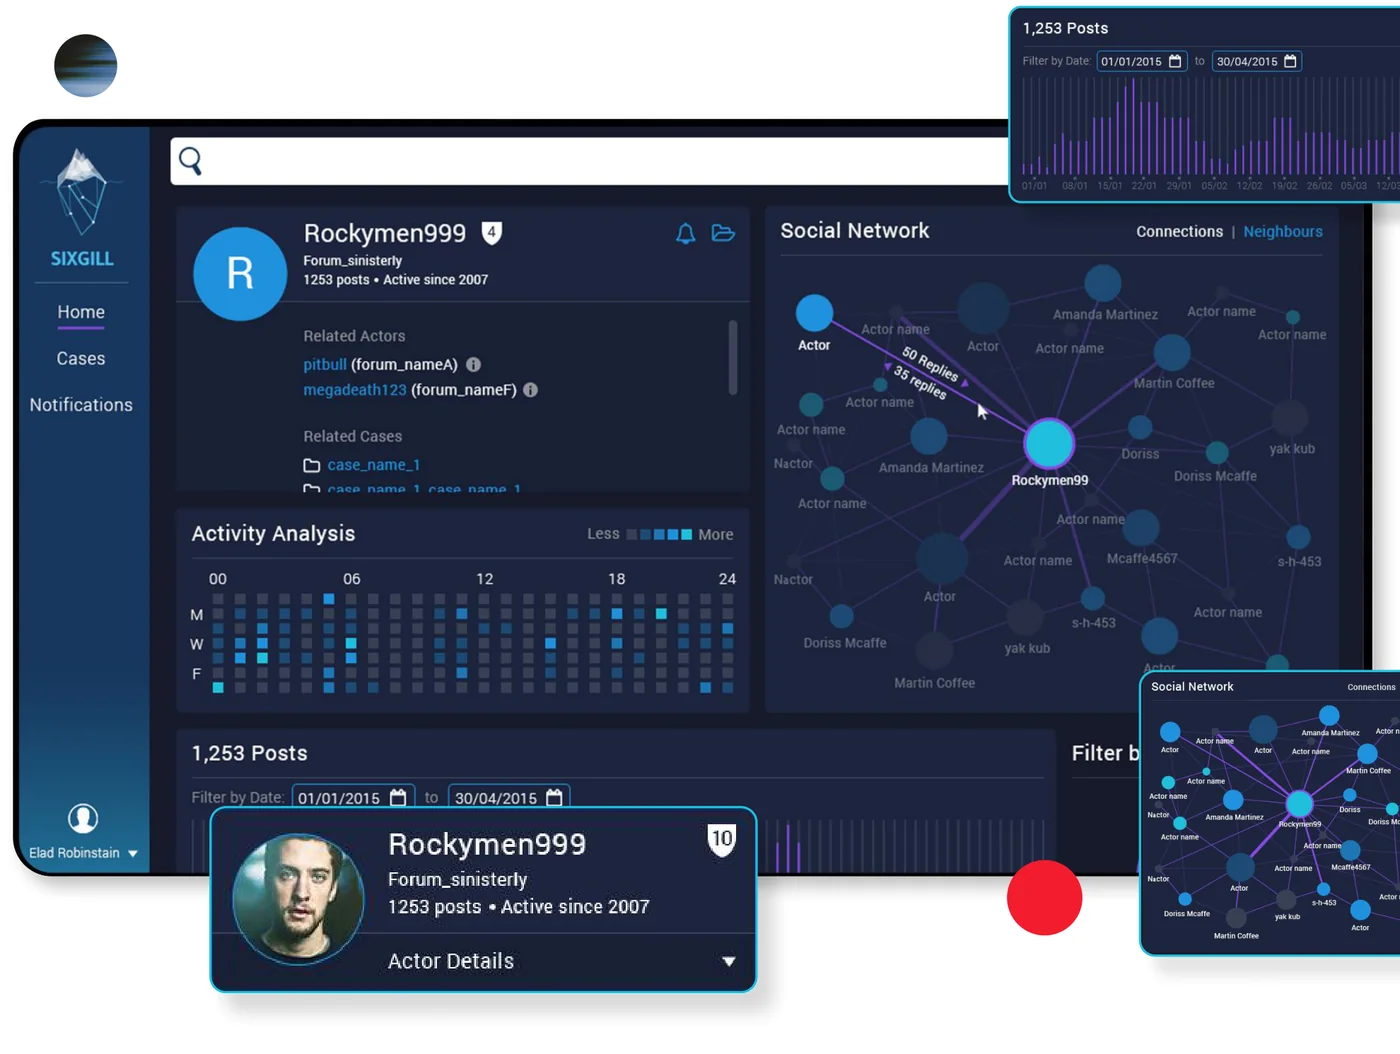
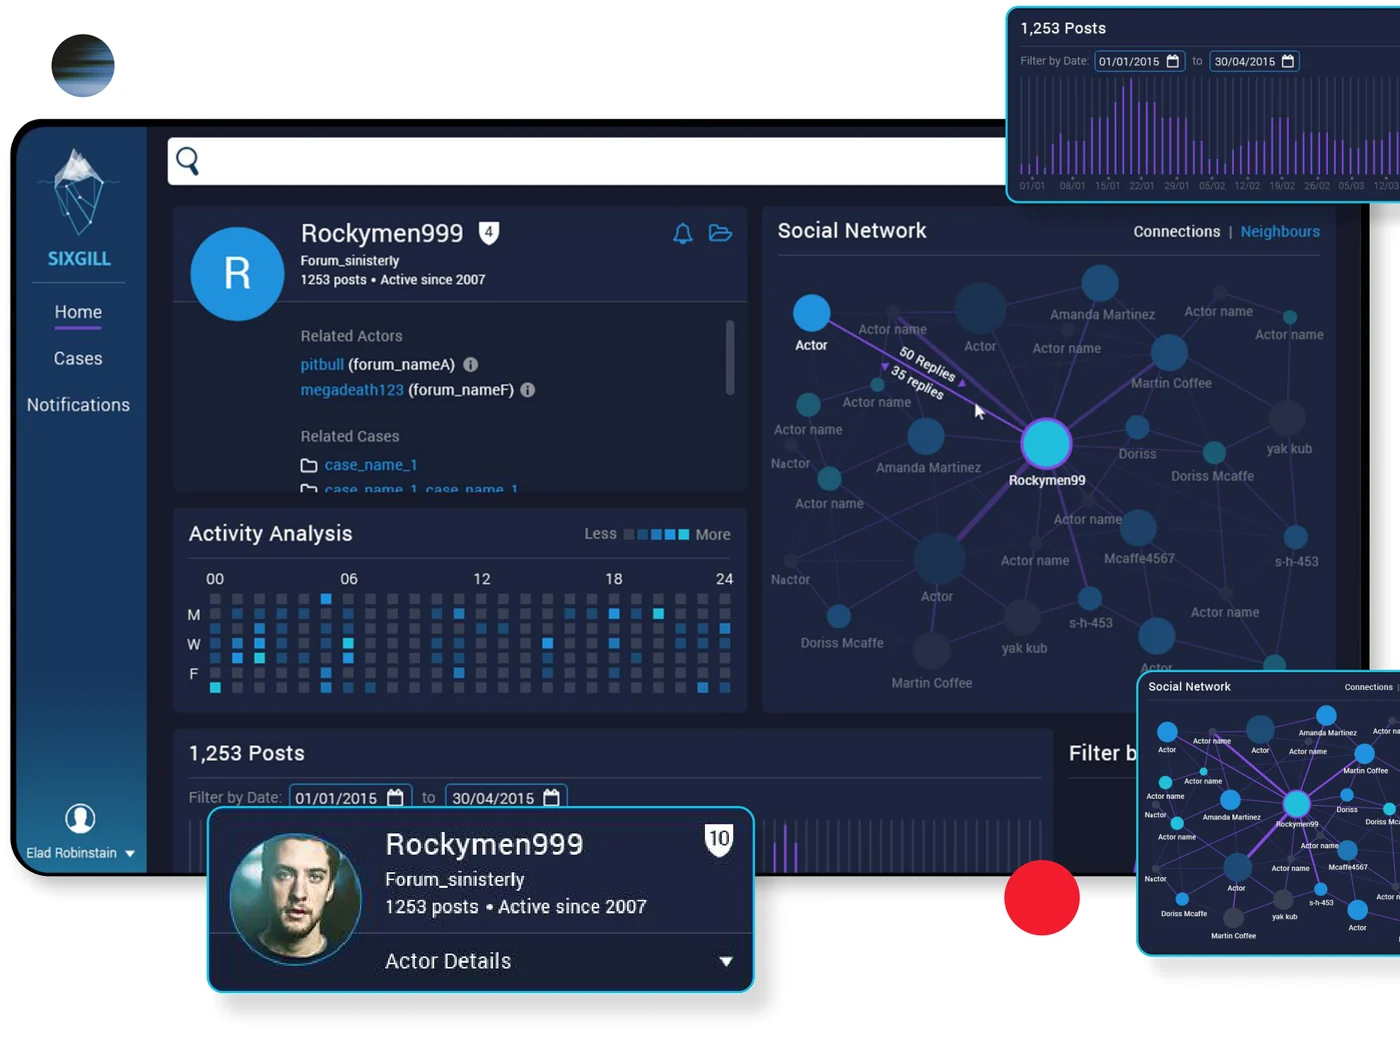
Wide hero frames for all four case studies
Each project hero is now a 5440-wide composition (5400 for
Dreamplace) with the side screens complete, rendered at ~6000px for
Retina. The center tablet keeps its size; on very wide screens the
image ends at the side tablets instead of showing a cut edge.

diff --git a/assets/css/site.css b/assets/css/site.css
@@ -107,7 +107,10 @@
   /* full-bleed hero: the image runs to the window edges, centered on its main object; the window crops the sides, no white gap */
   .hero-photo.bleed{max-width:none; padding-inline:0; overflow:hidden;}
   .hero-photo.bleed img{width:min(126vw, 1818px); max-width:none; margin-left:50%; transform:translateX(-50%);}
-  @media (max-width:640px){ .hero-photo.bleed{padding-inline:0;} .hero-photo.bleed img{width:100%; margin-left:0; transform:none;} }
+  /* .xl: a wider frame (5440 instead of 3349) with the side screens complete. Same tablet size, so the image is 1.624x wider (up to 2953px); on wider screens it ends where the side tablets end, so there is no cut edge. */
+  .hero-photo.bleed.xl img{width:min(204.7vw, 2953px);}
+  .hero-photo.bleed.xl.n5400 img{width:min(203.2vw, 2930px);} /* a 5400-wide frame (Dreamplace) */
+  @media (max-width:640px){ .hero-photo.bleed{padding-inline:0;} .hero-photo.bleed img, .hero-photo.bleed.xl img, .hero-photo.bleed.xl.n5400 img{width:100%; margin-left:0; transform:none;} }
   /* viewer */
   .seg{display:flex; gap:24px; margin-bottom:16px; border-bottom:1px solid var(--hair);}
   .seg button{font:500 12px var(--f-mono); letter-spacing:0.08em; text-transform:uppercase; border:0; background:none; color:var(--ink-faint); padding:0 0 12px; cursor:pointer; border-bottom:2px solid transparent; margin-bottom:-1px;}

diff --git a/projects/franklin/index.html b/projects/franklin/index.html
@@ -38,8 +38,8 @@
   </header>
 </section>
 
-<section class="hero-photo bleed">
-  <div class="shot"><picture><source media="(max-width:640px)" srcset="../../assets/img/franklin/hero-collage-m.webp?v=4"><img src="../../assets/img/franklin/hero-collage.webp?v=5" alt="Franklin search home on a tablet, between two more Franklin screens, with a classification card, case details search, gene mutations panel and the mascot app icon"></picture></div>
+<section class="hero-photo bleed xl">
+  <div class="shot"><picture><source media="(max-width:640px)" srcset="../../assets/img/franklin/hero-collage-m.webp?v=5"><img src="../../assets/img/franklin/hero-collage.webp?v=6" alt="Franklin search home on a tablet, between two more Franklin screens, with a classification card, case details search, gene mutations panel and the mascot app icon"></picture></div>
 </section>
 
 <section class="gut">

diff --git a/projects/sixgill/index.html b/projects/sixgill/index.html
@@ -37,8 +37,8 @@
   </header>
 </section>
 
-<section class="hero-photo bleed">
-  <div class="shot"><picture><source media="(max-width:640px)" srcset="../../assets/img/sixgill/hero-collage-m.webp?v=1"><img src="../../assets/img/sixgill/hero-collage.webp?v=1" alt="Sixgill actor profile with activity heatmap and Social Network chart on a tablet, between search results screens, with post volume, actor card and network cards"></picture></div>
+<section class="hero-photo bleed xl">
+  <div class="shot"><picture><source media="(max-width:640px)" srcset="../../assets/img/sixgill/hero-collage-m.webp?v=2"><img src="../../assets/img/sixgill/hero-collage.webp?v=2" alt="Sixgill actor profile with activity heatmap and Social Network chart on a tablet, between search results screens, with post volume, actor card and network cards"></picture></div>
 </section>
 
 <section class="gut">

diff --git a/projects/thetaray/index.html b/projects/thetaray/index.html
@@ -37,8 +37,8 @@
   </header>
 </section>
 
-<section class="hero-photo bleed">
-  <div class="shot"><picture><source media="(max-width:640px)" srcset="../../assets/img/thetaray/hero-collage-m.webp?v=1"><img src="../../assets/img/thetaray/hero-collage.webp?v=1" alt="ThetaRay Vector Builder pipeline on a tablet, between the cluster map and the results dashboard, with analysis, trigger-feature and abnormal-transaction cards"></picture></div>
+<section class="hero-photo bleed xl">
+  <div class="shot"><picture><source media="(max-width:640px)" srcset="../../assets/img/thetaray/hero-collage-m.webp?v=3"><img src="../../assets/img/thetaray/hero-collage.webp?v=3" alt="ThetaRay Vector Builder pipeline on a tablet, between the cluster map and the results dashboard, with analysis, trigger-feature and abnormal-transaction cards"></picture></div>
 </section>
 
 <section class="gut">

diff --git a/projects/dreamworks/index.html b/projects/dreamworks/index.html
@@ -37,8 +37,8 @@
   </header>
 </section>
 
-<section class="hero-photo bleed">
-  <div class="shot"><picture><source media="(max-width:640px)" srcset="../../assets/img/dreamworks/hero-collage-m.webp?v=2"><img src="../../assets/img/dreamworks/hero-collage.webp?v=2" alt="DreamPlace landing page with Shrek and Fiona on a tablet, a phone with the wishlist, registration and booking calendar screens, and Santa's sleigh"></picture></div>
+<section class="hero-photo bleed xl n5400">
+  <div class="shot"><picture><source media="(max-width:640px)" srcset="../../assets/img/dreamworks/hero-collage-m.webp?v=3"><img src="../../assets/img/dreamworks/hero-collage.webp?v=3" alt="DreamPlace landing page with Shrek and Fiona on a tablet, a phone with the wishlist, registration and booking calendar screens, and Santa's sleigh"></picture></div>
 </section>
 
 <section class="gut">

diff --git a/docs/design-system.md b/docs/design-system.md
@@ -27,7 +27,7 @@ The live case studies use a shorter, image-led format, styled in the `Short case
 Every case study uses the same skeleton, top to bottom:
 
 1. **Site bar**: the shared header (ZIK wordmark, Works | About). The live-product link sits under the hero lede as a `.live-link`.
-2. **Case hero**: headline in `accent`, four project-fact pills (Role, Industry, Product, Service, values only), lede, then the hero image. A wide hero composition uses `.hero-photo.bleed`: it runs to the window edges, centered on its main screen, so the window crops the sides instead of leaving a white gap (phones get a tighter crop through `<picture>`, also edge to edge).
+2. **Case hero**: headline in `accent`, four project-fact pills (Role, Industry, Product, Service, values only), lede, then the hero image. A wide hero composition uses `.hero-photo.bleed`: it runs to the window edges, centered on its main screen, so the window crops the sides instead of leaving a white gap, up to 1818px wide. A wider Figma frame (5440 instead of 3349, side screens shown complete) adds `.xl`: it holds up to 2953px and beyond that ends naturally at the side tablets, so frames this wide are the preferred format (phones get a tighter crop through `<picture>`, also edge to edge).
 3. **01 My role**: section headline, fact list (Role, Scope, Timeline) beside a 2×2 story grid (Background, Problem, Approach, Result).
 4. **02 The users**: persona cards.
 5. **03 The challenge**: challenge and solution columns, then a before/after compare slider.
